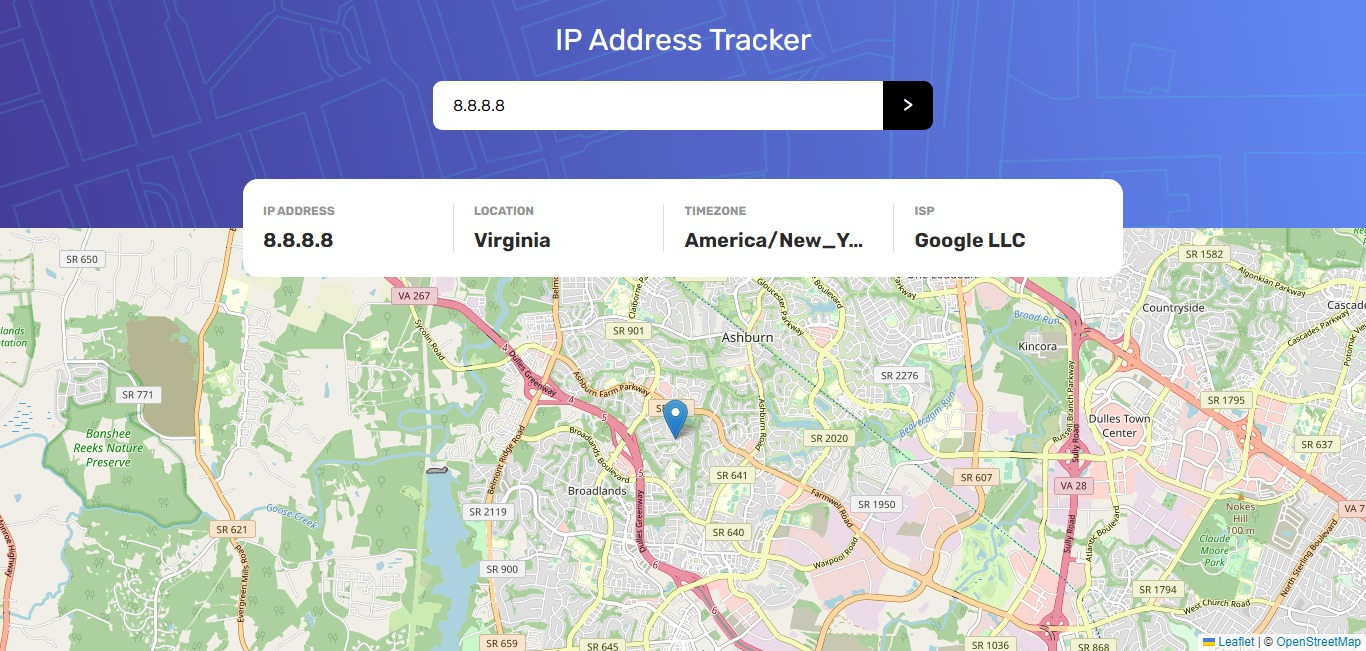
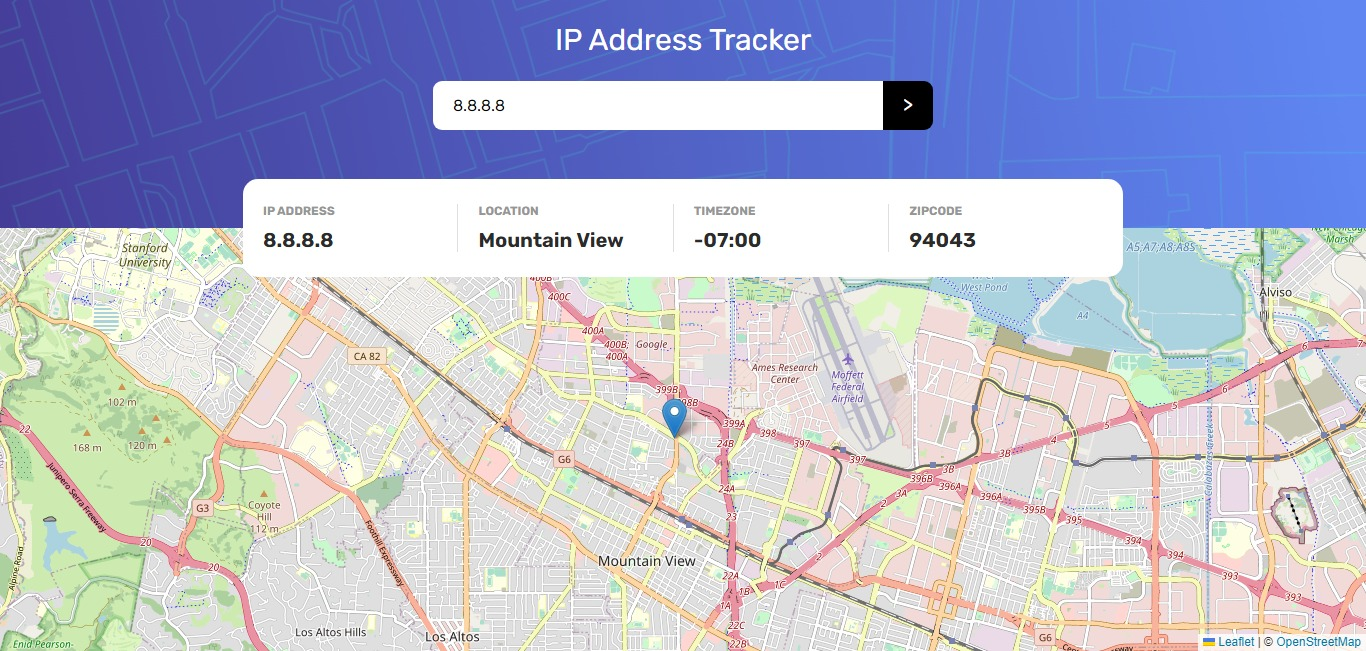
change screenshot image

diff --git a/scripts/index.js b/scripts/index.js
@@ -4,18 +4,18 @@ const submitBtn = document.querySelector('input+button');
 const ipAddressContainer = document.querySelector('.ip-address p');
 const locationContainer = document.querySelector('.location p');
 const timezoneContainer = document.querySelector('.timezone p');
-const ispContainer = document.querySelector('.isp p');
+const zipCodeContainer = document.querySelector('.zipCode p');
 const searchContainer = document.querySelector('.search-input');
 
 const fillInfo = (info) => {
   const {
-    ip, location, timezone, isp,
+    ip, location, timezone, zipCode,
   } = info;
 
   ipAddressContainer.textContent = ip;
   locationContainer.textContent = location;
   timezoneContainer.textContent = timezone;
-  ispContainer.textContent = isp;
+  zipCodeContainer.textContent = zipCode;
 };
 
 const createMap = (lat, lon) => {
@@ -46,15 +46,15 @@ const createMap = (lat, lon) => {
 
 const getLocation = async (ipAddress = '') => {
   try {
-    const response = await fetch(`http://ip-api.com/json/${ipAddress}`);
+    const response = await fetch(`https://freeipapi.com/api/json/${ipAddress}`);
     const locationData = await response.json();
     return {
-      latitude: locationData.lat,
-      longitude: locationData.lon,
-      ip: locationData.query,
-      location: locationData.regionName,
-      timezone: locationData.timezone,
-      isp: locationData.isp,
+      latitude: locationData.latitude,
+      longitude: locationData.longitude,
+      ip: locationData.ipAddress,
+      location: locationData.cityName,
+      timezone: locationData.timeZone,
+      zipCode: locationData.zipCode,
     };
   } catch (error) {
     return { latitude: 0, longitude: 0 };

diff --git a/index.html b/index.html
@@ -35,8 +35,8 @@
           <h4>timezone</h4>
           <p></p>
         </div>
-        <div class="isp">
-          <h4>isp</h4>
+        <div class="zipCode">
+          <h4>zipCode</h4>
           <p></p>
         </div>
       </div>
